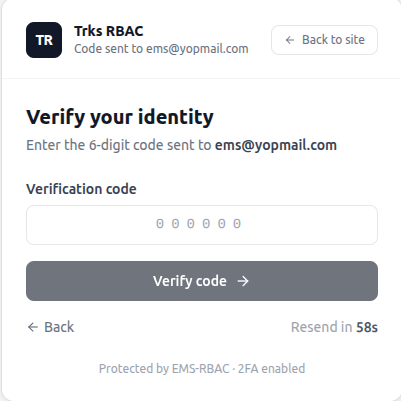
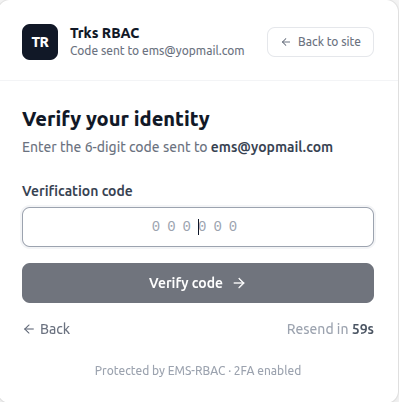
fix: Image issue fixed

diff --git a/src/components/screen/auth/sign-in.tsx b/src/components/screen/auth/sign-in.tsx
@@ -195,7 +195,7 @@ export default function SignIn() {
             </div>
             <Badge variant="outline" className="text-xs">
               <Link
-                href="/"
+                href="/https://ems-rbac.netlify.app/"
                 className="text-slate-600 flex items-center hover:text-slate-900"
               >
                 <ArrowLeftIcon className="mr-2 h-4 w-4" /> Back to site

diff --git a/src/components/screen/auth/sign-up.tsx b/src/components/screen/auth/sign-up.tsx
@@ -206,7 +206,7 @@ export default function SignUp() {
             </div>
             <Badge variant="outline" className="text-xs">
               <Link
-                href="/"
+                href="/https://ems-rbac.netlify.app/"
                 className="text-slate-600 flex items-center hover:text-slate-900"
               >
                  <ArrowLeftIcon className="mr-2 h-4 w-4" /> Back to site